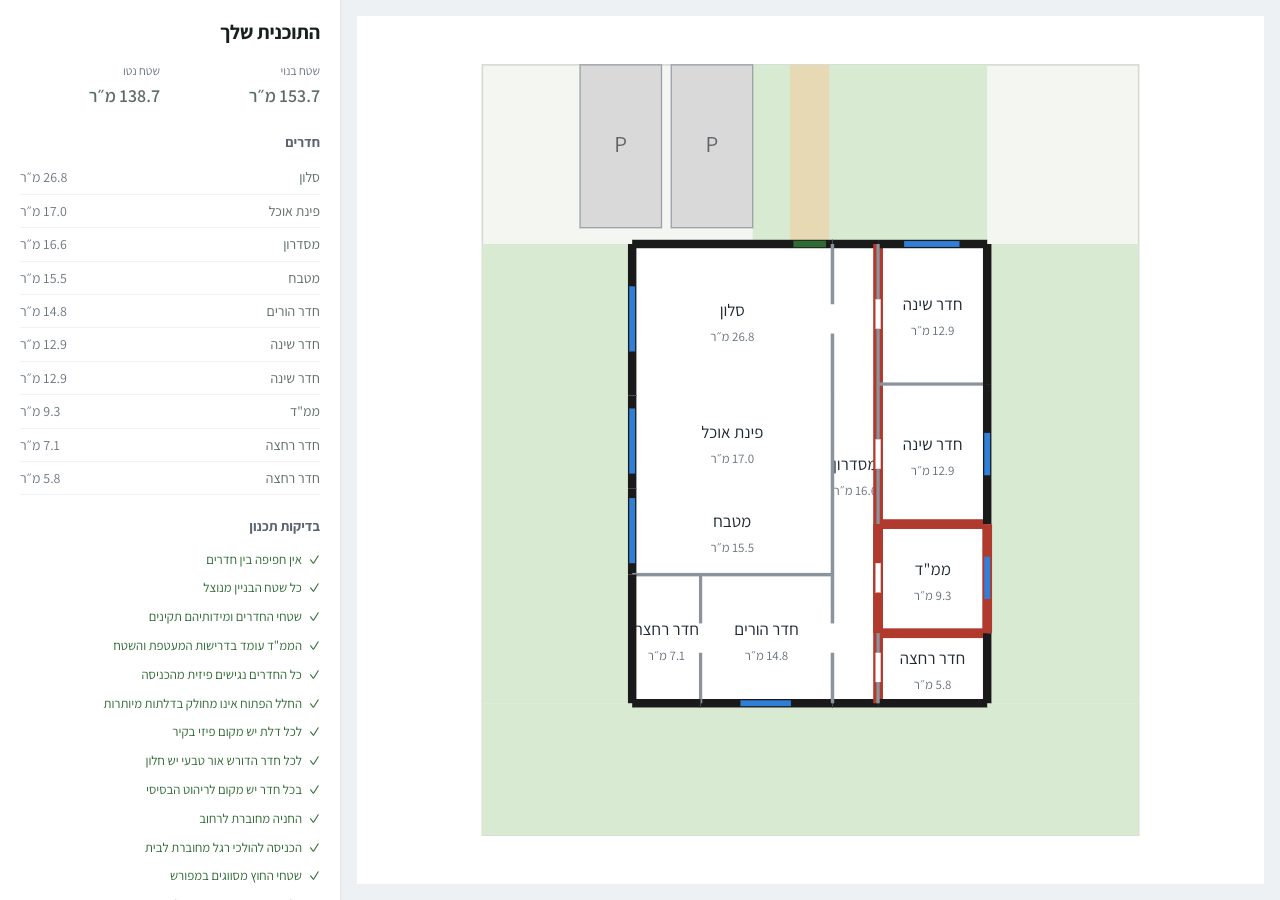
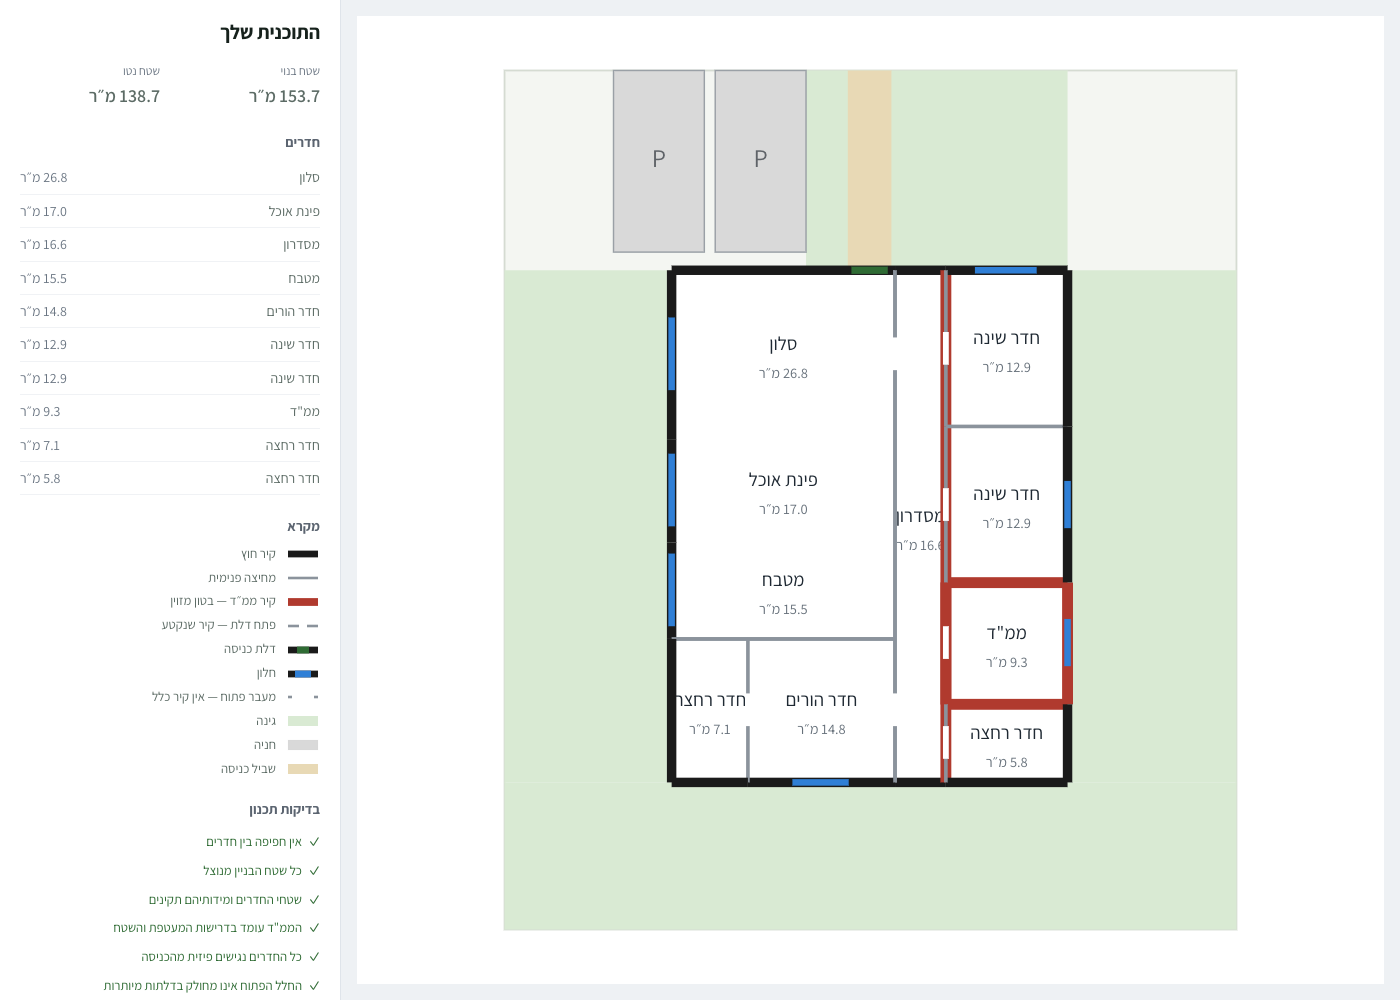
fix readme and add colors index

diff --git a/frontend/src/design/PlanLegend.tsx b/frontend/src/design/PlanLegend.tsx
@@ -1,0 +1,165 @@
+import type { DemoDesign } from './demoDesign'
+import { EXTERIOR_WALL_STYLE, WALL_STYLE } from './DemoPlan'
+import './PlanLegend.css'
+
+/** THE PLAN LEGEND — what each colour in the drawing means.
+ *
+ * Two rules, both inherited from the renderer it explains:
+ *
+ *  - The swatches are drawn from the renderer's OWN style values and CSS classes, never from a
+ *    second copy of the palette. Change a wall colour in `DemoPlan` and this follows automatically.
+ *  - An entry appears only when that thing is actually in THIS design. A house with no safe room
+ *    shows no safe-room key, and a plan with nothing open between rooms shows no open-passage key —
+ *    the legend describes the drawing in front of the user, not the renderer's full vocabulary.
+ */
+
+const SW = { w: 34, h: 12 } // swatch viewBox, in the same units the stroke widths below use
+
+function Swatch({ children }: { children: React.ReactNode }) {
+  return (
+    <svg className="legend-swatch" viewBox={`0 0 ${SW.w} ${SW.h}`} aria-hidden="true">
+      {children}
+    </svg>
+  )
+}
+
+/** A wall swatch, scaled from metres to the swatch box by the same factor for every entry so the
+ * relative weights a reader sees here match the relative weights in the plan. */
+const WEIGHT = 26
+
+function WallSwatch({ style }: { style: { color: string; width: number } }) {
+  return (
+    <Swatch>
+      <line
+        x1={2} y1={SW.h / 2} x2={SW.w - 2} y2={SW.h / 2}
+        stroke={style.color} strokeWidth={style.width * WEIGHT} strokeLinecap="butt"
+      />
+    </Swatch>
+  )
+}
+
+function AreaSwatch({ className }: { className: string }) {
+  return (
+    <Swatch>
+      <rect x={2} y={1} width={SW.w - 4} height={SW.h - 2} className={className} />
+    </Swatch>
+  )
+}
+
+function LegendRow({ swatch, label }: { swatch: React.ReactNode; label: string }) {
+  return (
+    <li className="legend-row">
+      {swatch}
+      <span className="legend-label">{label}</span>
+    </li>
+  )
+}
+
+function PlanLegend({ design }: { design: DemoDesign }) {
+  const hasSafeRoom = design.walls.some((w) => w.construction === 'RC_SAFE_ROOM')
+  const hasPartition = design.walls.some(
+    (w) => w.construction !== 'RC_SAFE_ROOM' && w.boundary_context !== 'EXTERIOR',
+  )
+  const hasInteriorDoor = design.doors.some((d) => !d.is_entrance)
+  const hasEntrance = design.doors.some((d) => d.is_entrance)
+
+  const mid = SW.h / 2
+  const partition = WALL_STYLE.STANDARD_PARTITION
+
+  return (
+    <div className="legend">
+      <h3 className="workspace-subtitle">מקרא</h3>
+      <ul className="legend-list">
+        <LegendRow swatch={<WallSwatch style={EXTERIOR_WALL_STYLE} />} label="קיר חוץ" />
+
+        {hasPartition ? (
+          <LegendRow swatch={<WallSwatch style={partition} />} label="מחיצה פנימית" />
+        ) : null}
+
+        {hasSafeRoom ? (
+          <LegendRow
+            swatch={<WallSwatch style={WALL_STYLE.RC_SAFE_ROOM} />}
+            label="קיר ממ״ד — בטון מזוין"
+          />
+        ) : null}
+
+        {hasInteriorDoor ? (
+          <LegendRow
+            swatch={
+              <Swatch>
+                {/* wall, a short gap where the leaf sits, wall again — the plan draws the gap by
+                    NOT drawing wall there, so the swatch does the same rather than painting white
+                    over it (which is invisible against this panel). */}
+                <line x1={2} y1={mid} x2={13} y2={mid}
+                      stroke={partition.color} strokeWidth={partition.width * WEIGHT} />
+                <line x1={21} y1={mid} x2={SW.w - 2} y2={mid}
+                      stroke={partition.color} strokeWidth={partition.width * WEIGHT} />
+              </Swatch>
+            }
+            label="פתח דלת — קיר שנקטע"
+          />
+        ) : null}
+
+        {hasEntrance ? (
+          <LegendRow
+            swatch={
+              <Swatch>
+                <line x1={2} y1={mid} x2={SW.w - 2} y2={mid}
+                      stroke={EXTERIOR_WALL_STYLE.color}
+                      strokeWidth={EXTERIOR_WALL_STYLE.width * WEIGHT} />
+                {/* the colour comes from the renderer's own class; the WIDTH has to be an inline
+                    style, because that class also sets a stroke-width in metres and a stylesheet
+                    rule beats a presentation attribute — at swatch scale that left the overlay
+                    invisible and the key showed a plain black bar. */}
+                <line x1={11} y1={mid} x2={23} y2={mid} className="demo-door--entrance"
+                      style={{ strokeWidth: EXTERIOR_WALL_STYLE.width * WEIGHT }} />
+              </Swatch>
+            }
+            label="דלת כניסה"
+          />
+        ) : null}
+
+        {design.windows.length > 0 ? (
+          <LegendRow
+            swatch={
+              <Swatch>
+                <line x1={2} y1={mid} x2={SW.w - 2} y2={mid}
+                      stroke={EXTERIOR_WALL_STYLE.color}
+                      strokeWidth={EXTERIOR_WALL_STYLE.width * WEIGHT} />
+                <line x1={9} y1={mid} x2={25} y2={mid} className="demo-window"
+                      style={{ strokeWidth: EXTERIOR_WALL_STYLE.width * WEIGHT }} />
+              </Swatch>
+            }
+            label="חלון"
+          />
+        ) : null}
+
+        {design.open_interfaces.length > 0 ? (
+          <LegendRow
+            swatch={
+              <Swatch>
+                <line x1={2} y1={mid} x2={6} y2={mid}
+                      stroke={partition.color} strokeWidth={partition.width * WEIGHT} />
+                <line x1={28} y1={mid} x2={SW.w - 2} y2={mid}
+                      stroke={partition.color} strokeWidth={partition.width * WEIGHT} />
+              </Swatch>
+            }
+            label="מעבר פתוח — אין קיר כלל"
+          />
+        ) : null}
+
+        {design.garden.length > 0 ? (
+          <LegendRow swatch={<AreaSwatch className="demo-garden" />} label="גינה" />
+        ) : null}
+
+        {design.parking.length > 0 ? (
+          <LegendRow swatch={<AreaSwatch className="demo-parking" />} label="חניה" />
+        ) : null}
+
+        <LegendRow swatch={<AreaSwatch className="demo-walk" />} label="שביל כניסה" />
+      </ul>
+    </div>
+  )
+}
+
+export default PlanLegend

diff --git a/frontend/src/design/DemoPlan.test.tsx b/frontend/src/design/DemoPlan.test.tsx
@@ -106,3 +106,63 @@ describe('DemoWorkspace', () => {
     expect(getByText('בעיה כלשהי')).toBeTruthy()
   })
 })
+
+describe('PlanLegend', () => {
+  it('names every colour the plan actually used', () => {
+    const full = design({
+      walls: [
+        { orientation: 'horizontal', coord: 5.5, start: 3, end: 8, construction: 'STANDARD_PARTITION', boundary_context: 'EXTERIOR', room_ids: ['LIVING'] },
+        { orientation: 'vertical', coord: 8, start: 5.5, end: 11.5, construction: 'RC_SAFE_ROOM', boundary_context: 'INTERIOR', room_ids: ['SAFE_ROOM'] },
+        { orientation: 'vertical', coord: 6, start: 5.5, end: 9, construction: 'STANDARD_PARTITION', boundary_context: 'INTERIOR', room_ids: ['LIVING', 'HALL'] },
+      ],
+    })
+    const { getByText } = render(<DemoWorkspace design={full} onChangeRequirements={() => {}} />)
+    getByText('מקרא')
+    getByText('קיר חוץ')
+    getByText('מחיצה פנימית')
+    getByText('קיר ממ״ד — בטון מזוין')
+    getByText('חלון')
+    getByText('דלת כניסה')
+    getByText('פתח דלת — קיר שנקטע')
+    getByText('מעבר פתוח — אין קיר כלל')
+    getByText('גינה')
+    getByText('חניה')
+  })
+
+  it('omits a key for anything this design does not contain', () => {
+    const plain = design({
+      walls: [
+        { orientation: 'horizontal', coord: 5.5, start: 3, end: 8, construction: 'STANDARD_PARTITION', boundary_context: 'EXTERIOR', room_ids: ['LIVING'] },
+      ],
+      open_interfaces: [],
+      windows: [],
+      parking: [],
+      garden: [],
+      doors: [],
+    })
+    const { queryByText, getByText } = render(
+      <DemoWorkspace design={plain} onChangeRequirements={() => {}} />,
+    )
+    getByText('קיר חוץ')
+    // no safe room in this house, so no safe-room key — and likewise for the rest
+    expect(queryByText('קיר ממ״ד — בטון מזוין')).toBeNull()
+    expect(queryByText('מעבר פתוח — אין קיר כלל')).toBeNull()
+    expect(queryByText('חלון')).toBeNull()
+    expect(queryByText('דלת כניסה')).toBeNull()
+    expect(queryByText('פתח דלת — קיר שנקטע')).toBeNull()
+    expect(queryByText('גינה')).toBeNull()
+    expect(queryByText('חניה')).toBeNull()
+  })
+
+  it('draws its swatches from the renderer’s own styles, so it cannot drift from the plan', () => {
+    const { container } = render(<DemoWorkspace design={design()} onChangeRequirements={() => {}} />)
+    const swatches = container.querySelectorAll('.legend-swatch')
+    expect(swatches.length).toBeGreaterThan(0)
+    const strokes = Array.from(container.querySelectorAll('.legend-swatch line')).map((l) =>
+      l.getAttribute('stroke'),
+    )
+    expect(strokes).toContain('#b03a2e') // WALL_STYLE.RC_SAFE_ROOM
+    expect(strokes).toContain('#1a1a1a') // EXTERIOR_WALL_STYLE
+    expect(strokes).toContain('#8b939c') // WALL_STYLE.STANDARD_PARTITION
+  })
+})

diff --git a/frontend/src/design/DemoPlan.tsx b/frontend/src/design/DemoPlan.tsx
@@ -14,15 +14,19 @@ import './DemoPlan.css'
 
 const PAD_M = 1.5
 
-const WALL_STYLE: Record<string, { color: string; width: number }> = {
+/** Exported so `PlanLegend` swatches are drawn from the SAME values as the plan itself — a legend
+ * that keeps its own copy of the colours is a legend that eventually lies about the drawing. */
+export const WALL_STYLE: Record<string, { color: string; width: number }> = {
   RC_SAFE_ROOM: { color: '#b03a2e', width: 0.3 },
   STRUCTURAL: { color: '#1a1a1a', width: 0.26 },
   STANDARD_PARTITION: { color: '#8b939c', width: 0.1 },
 }
 
-function wallStyle(construction: string, context: string) {
+export const EXTERIOR_WALL_STYLE = { color: '#1a1a1a', width: 0.26 }
+
+export function wallStyle(construction: string, context: string) {
   if (construction === 'RC_SAFE_ROOM') return WALL_STYLE.RC_SAFE_ROOM
-  if (context === 'EXTERIOR') return { color: '#1a1a1a', width: 0.26 }
+  if (context === 'EXTERIOR') return EXTERIOR_WALL_STYLE
   return WALL_STYLE[construction] ?? WALL_STYLE.STANDARD_PARTITION
 }
 

diff --git a/frontend/src/design/PlanLegend.css b/frontend/src/design/PlanLegend.css
@@ -1,0 +1,35 @@
+/* The legend sits in the side panel, quieter than the room schedule above it — it is a reference
+   the reader consults once, not something to read top to bottom. */
+.legend {
+  margin-top: 4px;
+}
+
+.legend-list {
+  list-style: none;
+  margin: 0;
+  padding: 0;
+  display: flex;
+  flex-direction: column;
+  gap: 7px;
+}
+
+.legend-row {
+  display: flex;
+  align-items: center;
+  gap: 10px;
+}
+
+/* The swatches carry the meaning, so they get a fixed track: every label starts on the same
+   vertical line however heavy or light its swatch is. */
+.legend-swatch {
+  flex: 0 0 34px;
+  width: 34px;
+  height: 12px;
+  overflow: visible;
+}
+
+.legend-label {
+  font-size: 13px;
+  line-height: 1.3;
+  color: var(--text);
+}

diff --git a/frontend/src/design/DemoWorkspace.tsx b/frontend/src/design/DemoWorkspace.tsx
@@ -1,5 +1,6 @@
 import type { DemoDesign } from './demoDesign'
 import DemoPlan from './DemoPlan'
+import PlanLegend from './PlanLegend'
 import './DemoWorkspace.css'
 
 /** SCREEN D — the plan workspace. The drawing dominates; information sits beside it, never on top.
@@ -42,6 +43,8 @@ function DemoWorkspace({ design, onChangeRequirements }: {
             </li>
           ))}
         </ul>
+
+        <PlanLegend design={design} />
 
         {design.validation.statements.length > 0 ? (
           <>

diff --git a/README.md b/README.md
@@ -7,7 +7,7 @@ doors, windows, a safe room, parking and garden — and refuses to show you anyt
 pass its own planning checks.
 
 <p align="center">
-  <img src="docs/images/05-plan-only.png" alt="A generated floor plan: open-plan living, dining and kitchen; three bedrooms; a reinforced safe room; two bathrooms; parking and garden" width="620">
+  <img src="docs/images/04-plan.png" alt="The plan workspace: a generated floor plan with open-plan living, dining and kitchen, three bedrooms, a reinforced safe room and two bathrooms, beside a room schedule, a colour key and the list of planning checks it passed" width="960">
 </p>
 
 <p align="center">
@@ -69,9 +69,27 @@ is what actually gets built: change 3 bedrooms to 2 here and a two-bedroom house
 
 ### 4 · Get the plan
 
-<img src="docs/images/04-plan.png" alt="The plan workspace: the floor plan with a room schedule and the list of planning checks that passed" width="900">
+<img src="docs/images/05-plan-only.png" alt="The floor plan on its own: open-plan living, dining and kitchen to the west, a corridor spine, three bedrooms and a red-walled safe room to the east, with parking, an entrance walk and garden around the building" width="640">
 
-Alongside the drawing is every check the plan passed, in plain language rather than check codes.
+Alongside the drawing is a room schedule, every check the plan passed in plain language rather than
+check codes, and a key to the drawing itself.
+
+### Reading the drawing
+
+<img src="docs/images/07-legend.png" alt="The plan key: exterior wall, interior partition, reinforced concrete safe-room wall, door opening, entrance door, window, open passage, garden, parking, entrance walk" width="300" align="left" hspace="16">
+
+The **red walls are the safe room** (ממ״ד) — reinforced concrete, drawn heavier and in its own
+colour because it is a structural requirement rather than an ordinary partition. Black is the
+exterior envelope, grey an interior partition, blue a window, green the entrance door.
+
+An **open passage carries no line at all**: where two spaces are genuinely open to each other the
+wall is not drawn thin or dashed, it is absent, which is why the living room, dining area and
+kitchen read as one continuous space above.
+
+The key is generated from the drawing's own style values, and it lists only what is actually in
+*this* plan — a house without a safe room shows no safe-room entry.
+
+<br clear="left">
 
 ### When it can't be built, it says so
 
